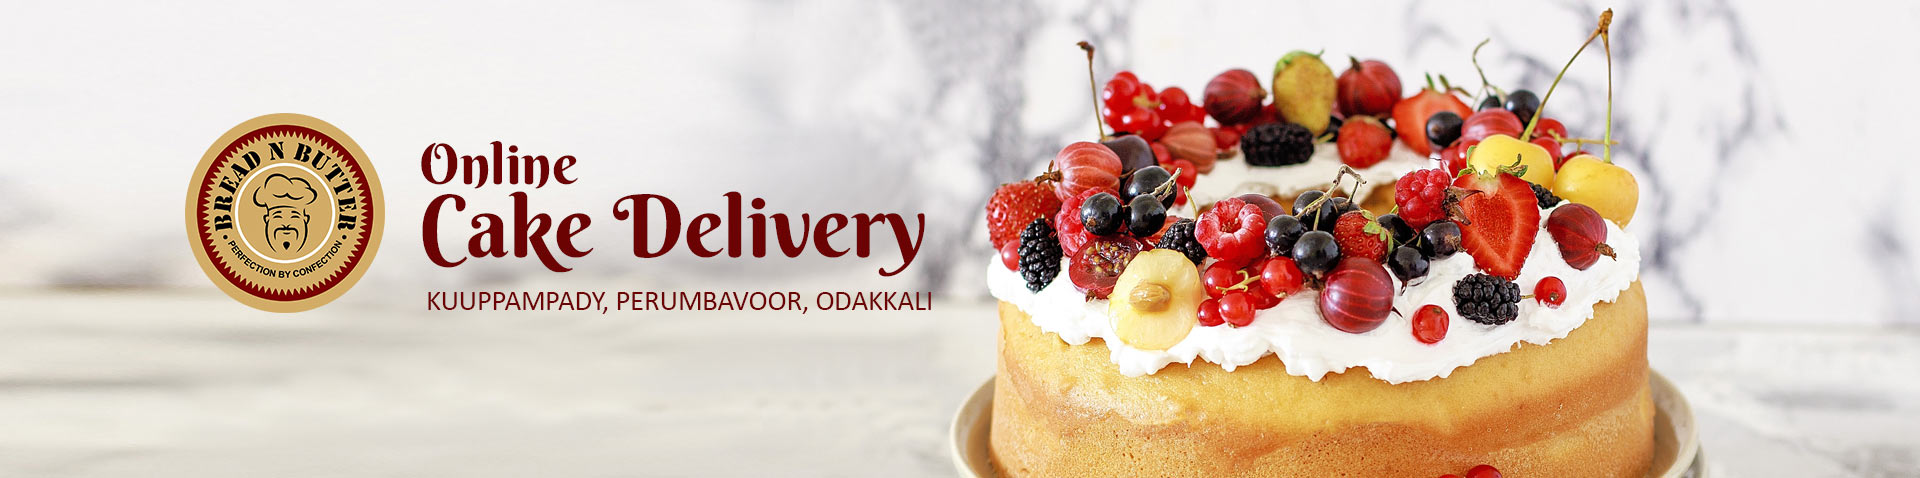
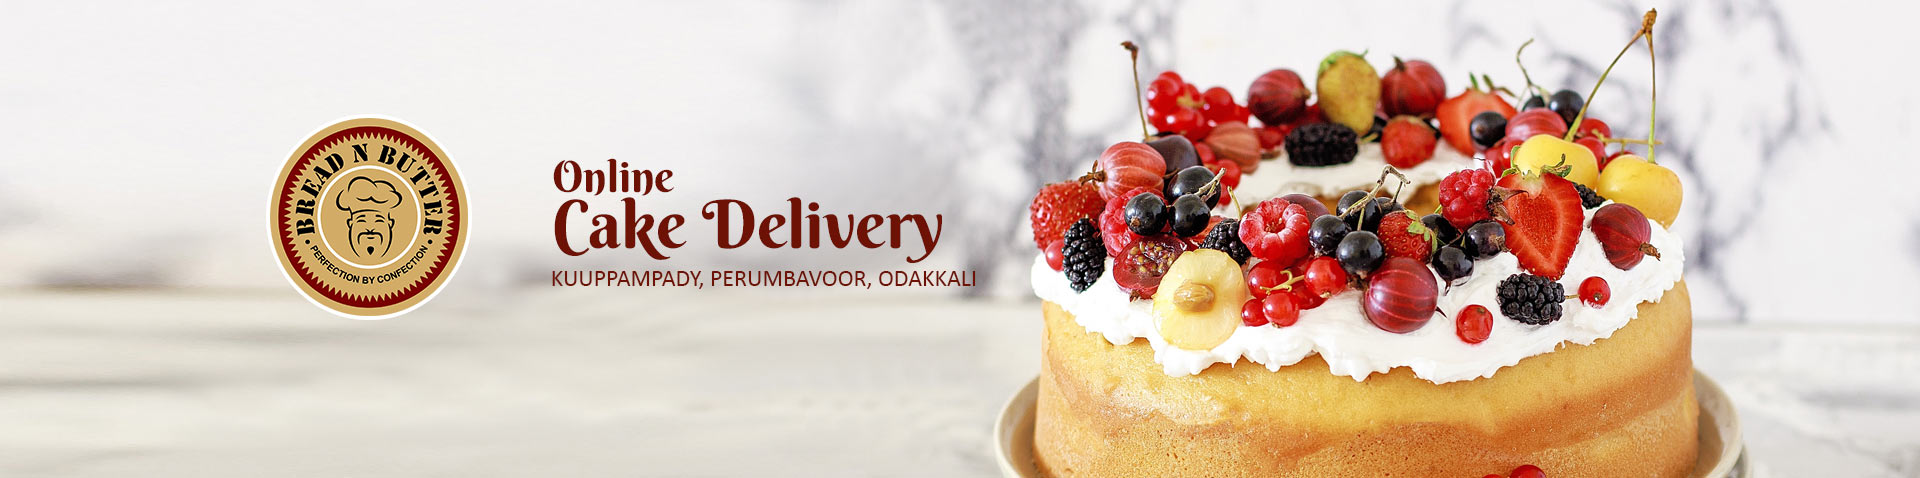
UI fix

diff --git a/ui/projects/Shop/src/app/cart-details/cart-details.component.html b/ui/projects/Shop/src/app/cart-details/cart-details.component.html
@@ -10,12 +10,22 @@
     <div mat-dialog-content>
 
       <mat-card *ngFor="let item of cart" class="grid-my-list">
-        <div class="cart-item-header">
-        {{item.product.name}}
-        {{item.product.shop_product_selected_variant.name}}
-        -- ₹ {{item.price}}
-      </div>
-      <div>
+        <div><img src="assets/tumb.png"></div>  
+        <div >        
+       <h4 class="cart-item-header pl-1"> {{item.product.name}}</h4>
+        <b class="block pl-1">₹ {{item.price}}</b>
+       <small class="block pl-1">{{item.product.shop_product_selected_variant.name}}</small> 
+       <div class="d-none-lg">
+       <button mat-icon-button color="primary" (click)="updateCart(item, '-')">
+        <mat-icon>remove_circle_outline</mat-icon>
+      </button>
+      {{item.qty}}
+      <button mat-icon-button color="primary" (click)="updateCart(item, '+')">
+        <mat-icon>add_circle_outline</mat-icon>
+      </button>
+    </div>
+      </div>  
+      <div class="d-none-md">
         <button mat-icon-button color="primary" (click)="updateCart(item, '-')">
           <mat-icon>remove_circle_outline</mat-icon>
         </button>
@@ -23,20 +33,22 @@
         <button mat-icon-button color="primary" (click)="updateCart(item, '+')">
           <mat-icon>add_circle_outline</mat-icon>
         </button>
-      </div>
-        <!-- <ng-container *ngIf="item.message"> -->
-          <div>
-          {{item.message}}
-          <button mat-icon-button color="primary" (click)="editMessage(item)">
-            <mat-icon>add_comment</mat-icon>
-          </button>
-        </div>
-        <!-- </ng-container> -->
+      </div> 
 
 <div>
+  
+   <!-- <ng-container *ngIf="item.message"> -->
+    <div>
+      {{item.message}}
+      <button mat-icon-button color="primary" (click)="editMessage(item)">
+        <mat-icon>add_comment</mat-icon>
+      </button>
+    <!-- </ng-container> -->
         <button mat-icon-button color="warn" (click)="deleteItem(item)">
           <mat-icon>delete</mat-icon>
-        </button></div>
+        </button>
+      </div>
+      </div>
       </mat-card>
 <div class="order-total">
   <div>
@@ -85,13 +97,13 @@
             </mat-error>
           </mat-form-field>
 
-          <mat-form-field class="full-width-text" appearance="standard">
+        <!--  <mat-form-field class="full-width-text" appearance="standard">
             <mat-label>Email address</mat-label>
             <input matInput formControlName="email" placeholder="Ex. johndoe@gmail.com" >
             <mat-error *ngIf="f.email.errors && f.email.errors.error">
               {{f.email.errors.error}}
             </mat-error>
-          </mat-form-field>
+          </mat-form-field> -->
 
           <mat-form-field class="full-width-text" appearance="standard">
             <mat-label>Phone</mat-label>
@@ -171,23 +183,39 @@
 
       </div>
     </div>
+    <section class="address">
+      <button mat-icon-button color="primary" class="right-position">
+        <mat-icon>edit</mat-icon>
+      </button>
+
+     <h3>Praveen Kumar</h3> 
+     <h4> Ph: 9995346404</h4>
+     <p>Delivery on: 11/18/2020</p> 
+      <p>Time: 11.55 AM</p>
+      <p>Location: Kuruppampady;</p>
+    </section>
 
     <div mat-dialog-actions class="actionBtn">
-      <button class="whatsapp-btn" mat-raised-button color="primary" type="submit" (click)="sendToShop()">
-        <!-- Generator: Adobe Illustrator 25.0.0, SVG Export Plug-In . SVG Version: 6.00 Build 0)  -->
-        <svg version="1.1" id="Layer_1" xmlns="http://www.w3.org/2000/svg" xmlns:xlink="http://www.w3.org/1999/xlink"
-           viewBox="0 0 682 682" xml:space="preserve">
-        <path class="st0" d="M567.2,113.9C507.3,54,427.8,21,343,21C168.4,21,26.3,163.1,26.2,337.8c0,55.8,14.6,110.3,42.3,158.4
-          L23.6,660.4l168-44.1c46.3,25.2,98.4,38.5,151.4,38.6h0.1c174.6,0,316.8-142.1,316.8-316.8C659.9,253.4,627,173.8,567.2,113.9z
-           M343,601.4h-0.1c-47.3,0-93.6-12.7-134-36.7l-9.6-5.7l-99.7,26.1l26.6-97.2l-6.3-10C93.6,436,79.7,387.6,79.7,337.8
-          C79.8,192.6,197.9,74.5,343.2,74.5c70.3,0,136.5,27.4,186.2,77.2s77.1,115.9,77.1,186.3C606.3,483.2,488.2,601.4,343,601.4z
-           M487.5,404.1c-7.9-4-46.8-23.1-54.1-25.8c-7.3-2.6-12.5-4-17.8,4c-5.3,7.9-20.4,25.8-25.1,31c-4.6,5.3-9.2,5.9-17.2,2
-          c-7.9-4-33.4-12.3-63.7-39.3c-23.5-21-39.4-46.9-44-54.8c-4.6-7.9,0-11.8,3.5-16.2c8.6-10.6,17.2-21.8,19.8-27.1
-          c2.6-5.3,1.3-9.9-0.7-13.9c-2-4-17.8-42.9-24.4-58.8c-6.4-15.4-13-13.3-17.8-13.6c-4.6-0.2-9.9-0.3-15.2-0.3c-5.3,0-13.9,2-21.1,9.9
-          c-7.3,7.9-27.7,27.1-27.7,66s28.4,76.6,32.3,81.9c4,5.3,55.8,85.2,135.2,119.5c18.9,8.2,33.6,13,45.1,16.7c19,6,36.2,5.2,49.9,3.1
-          c15.2-2.3,46.8-19.2,53.4-37.6c6.6-18.5,6.6-34.3,4.6-37.6C500.7,410.1,495.4,408.1,487.5,404.1z"/>
-        </svg>
-         Send to Whatsapp </button>
+      <section class="example-section">
+        <mat-checkbox ></mat-checkbox>&nbsp;&nbsp;I agree to the <a href="#">terms of service</a>
+        <button class="whatsapp-btn" mat-raised-button color="primary" type="submit" (click)="sendToShop()">
+          <!-- Generator: Adobe Illustrator 25.0.0, SVG Export Plug-In . SVG Version: 6.00 Build 0)  -->
+          <svg version="1.1" id="Layer_1" xmlns="http://www.w3.org/2000/svg" xmlns:xlink="http://www.w3.org/1999/xlink"
+             viewBox="0 0 682 682" xml:space="preserve">
+          <path class="st0" d="M567.2,113.9C507.3,54,427.8,21,343,21C168.4,21,26.3,163.1,26.2,337.8c0,55.8,14.6,110.3,42.3,158.4
+            L23.6,660.4l168-44.1c46.3,25.2,98.4,38.5,151.4,38.6h0.1c174.6,0,316.8-142.1,316.8-316.8C659.9,253.4,627,173.8,567.2,113.9z
+             M343,601.4h-0.1c-47.3,0-93.6-12.7-134-36.7l-9.6-5.7l-99.7,26.1l26.6-97.2l-6.3-10C93.6,436,79.7,387.6,79.7,337.8
+            C79.8,192.6,197.9,74.5,343.2,74.5c70.3,0,136.5,27.4,186.2,77.2s77.1,115.9,77.1,186.3C606.3,483.2,488.2,601.4,343,601.4z
+             M487.5,404.1c-7.9-4-46.8-23.1-54.1-25.8c-7.3-2.6-12.5-4-17.8,4c-5.3,7.9-20.4,25.8-25.1,31c-4.6,5.3-9.2,5.9-17.2,2
+            c-7.9-4-33.4-12.3-63.7-39.3c-23.5-21-39.4-46.9-44-54.8c-4.6-7.9,0-11.8,3.5-16.2c8.6-10.6,17.2-21.8,19.8-27.1
+            c2.6-5.3,1.3-9.9-0.7-13.9c-2-4-17.8-42.9-24.4-58.8c-6.4-15.4-13-13.3-17.8-13.6c-4.6-0.2-9.9-0.3-15.2-0.3c-5.3,0-13.9,2-21.1,9.9
+            c-7.3,7.9-27.7,27.1-27.7,66s28.4,76.6,32.3,81.9c4,5.3,55.8,85.2,135.2,119.5c18.9,8.2,33.6,13,45.1,16.7c19,6,36.2,5.2,49.9,3.1
+            c15.2-2.3,46.8-19.2,53.4-37.6c6.6-18.5,6.6-34.3,4.6-37.6C500.7,410.1,495.4,408.1,487.5,404.1z"/>
+          </svg>
+           Send to Whatsapp </button>      
+      </section>
+
+      
     </div>
   </ng-container>
 </ng-container>

diff --git a/ui/projects/Shop/src/app/cart-details/cart-details.component.scss b/ui/projects/Shop/src/app/cart-details/cart-details.component.scss
@@ -1,15 +1,25 @@
 .grid-my-list {
     display: grid;
-    grid-template-columns: 1fr 95px 22px 24px;
-    grid-column-gap: 6px;
-    align-items: center;
-    padding: 0 15px!important;
+   
+    grid-column-gap: 6px;    
+    padding: 0 10px!important;
     margin-bottom: 12px;
     min-height: 67px;
+    img {
+        width:100%;
+    }
+    > div {
+        padding:10px 5px;
+    }
+    .pl-1 {padding-left: 10px;}
+}
+.block {
+    display: block;
 }
 .cart-item-header {
     color: #821807;
     font-weight: 500;
+    margin-bottom: 0px;
 }
 .m-15 {
     margin-top:15px;
@@ -27,13 +37,14 @@
     }
 }
 
-.order-total{
-    background: #00E777;
+.order-total{   
+    background: #e8e8e8;
     padding: 15px;
     border-radius: 5px;
     display: grid;
     grid-template-columns: 1fr 111px;
-    column-gap:15px;
+    column-gap: 15px;
+    border:#00E777 1px solid;
     .block {
         display: block;
     }
@@ -58,6 +69,7 @@
         .mat-button-toggle-group {
             position:absolute;
             right:0;
+            top: 10px;
         }
         .mat-form-field {
             width: 100%;
@@ -73,15 +85,33 @@
     background-color: #00E777;
     border-radius: 50px;
     padding: 5px 20px;
-    margin-left: auto;
+    margin-left: 30px;
 }
 svg {
     width:25px;
     margin-right: 8px;
     
 }
-.actionBtn {display: flex;}
+.actionBtn {   
+    margin-top: 30px;
+    .example-section {margin-left: auto;}
+}
+.address {
+margin-top: 15px;
+    h3,h4,p { margin-bottom: 0;}
+    background: #FFF;
+    padding: 15px;
+    border-radius: 5px;  
+    border:#ddd 1px solid;
+    position: relative;
+    .right-position {
+        position: absolute;
+        right: 10px;
+        top:10px;
+    }
+}
 @media only screen and (max-width: 768px) {
+    
     .grid-form {
         display: grid;    
         grid-template-columns: 1fr ;
@@ -90,4 +120,43 @@ svg {
            margin: 0;
            padding: 0;
        }
+       .grid-my-list {
+        grid-template-columns: 60px 1fr  41px;
+        align-items:flex-start;
+    }
+    .d-none-md {
+        display: none;
+    }
+    .d-block-md {
+        display: none;
+    }
+    .actionBtn {
+         
+        .example-section {display: table;
+            margin: 0 auto;
+            max-width: 222px;
+            .whatsapp-btn {
+                margin-left: 10px;
+                margin-top:20px;
+                margin-bottom: 20px;
+            }
+        }  
+
+    }
+}
+@media only screen and (min-width: 768px) {
+    .actionBtn {
+        display: flex;  
+            
+    }
+    .d-block-lg {
+        display: block;
+    }
+    .d-none-lg {
+        display: none;
+    }
+    .grid-my-list {
+        grid-template-columns: 60px 1fr 105px 90px;
+        align-items:center;
+    }
 }

diff --git a/ui/projects/Shop/src/app/home/home.component.html b/ui/projects/Shop/src/app/home/home.component.html
@@ -1,6 +1,6 @@
 <mat-carousel
   timings="250ms ease-in"
-  [autoplay]="false"
+  [autoplay]="true"
   interval="5000"
   color="accent"
   maxWidth="auto"
@@ -21,7 +21,7 @@
   ></mat-carousel-slide>
   <mat-carousel-slide
   #matCarouselSlide    
-  image="assets/banner.jpg"
+  image="assets/banner-2.jpg"
   overlayColor="#00000040"
   [hideOverlay]="false"
 ></mat-carousel-slide>

diff --git a/ui/projects/Shop/src/styles.scss b/ui/projects/Shop/src/styles.scss
@@ -14,7 +14,7 @@ body { margin: 0; font-family: Roboto, "Helvetica Neue", sans-serif; }
     line-height: 16px!important;
 }
 
-main { min-height: calc(100vh - 96px); padding:0!important;}
+main { min-height: calc(100vh - 44px); padding:0!important;}
 .container {
     width: 100%;    
     padding: 0 15px;
